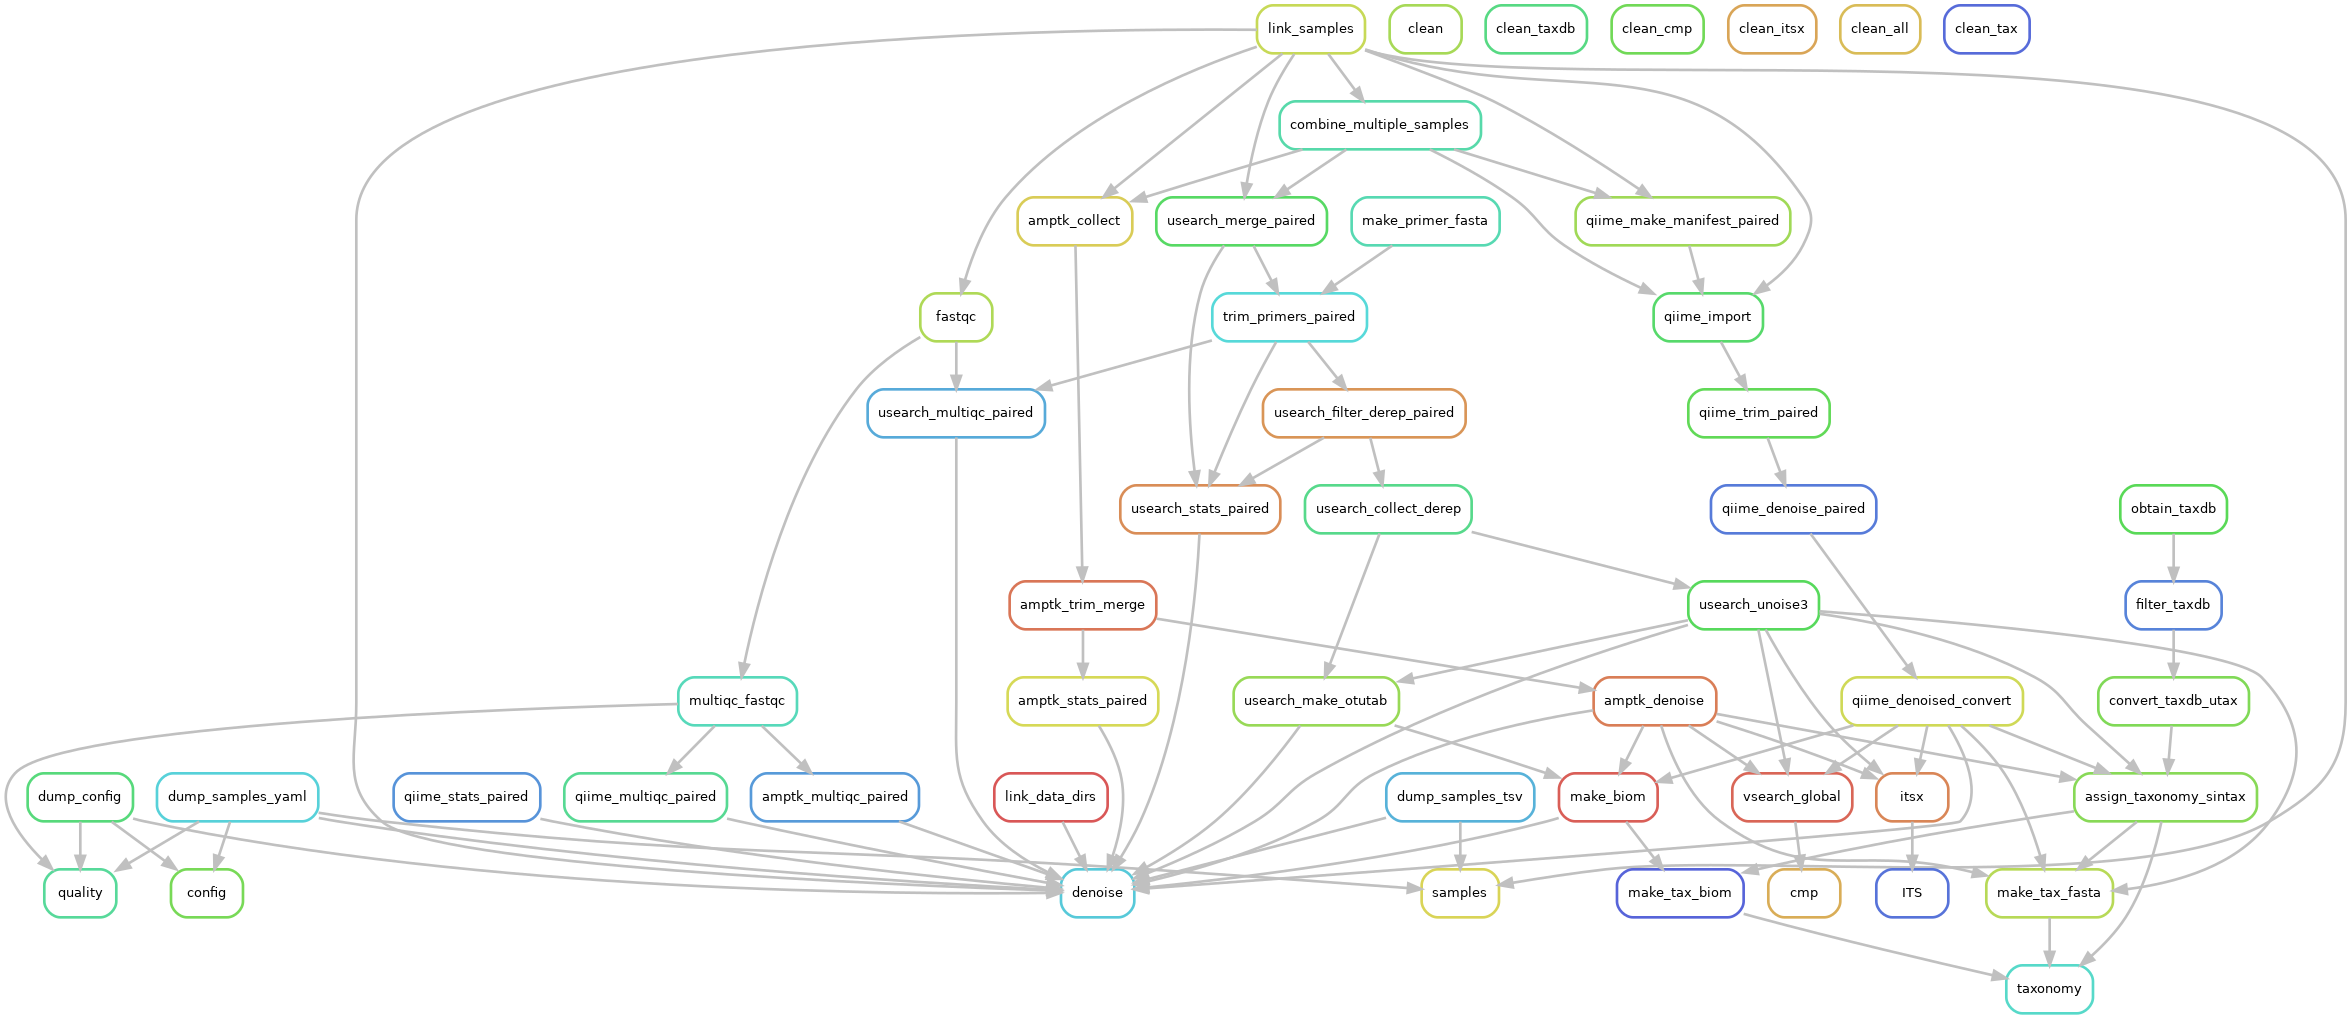
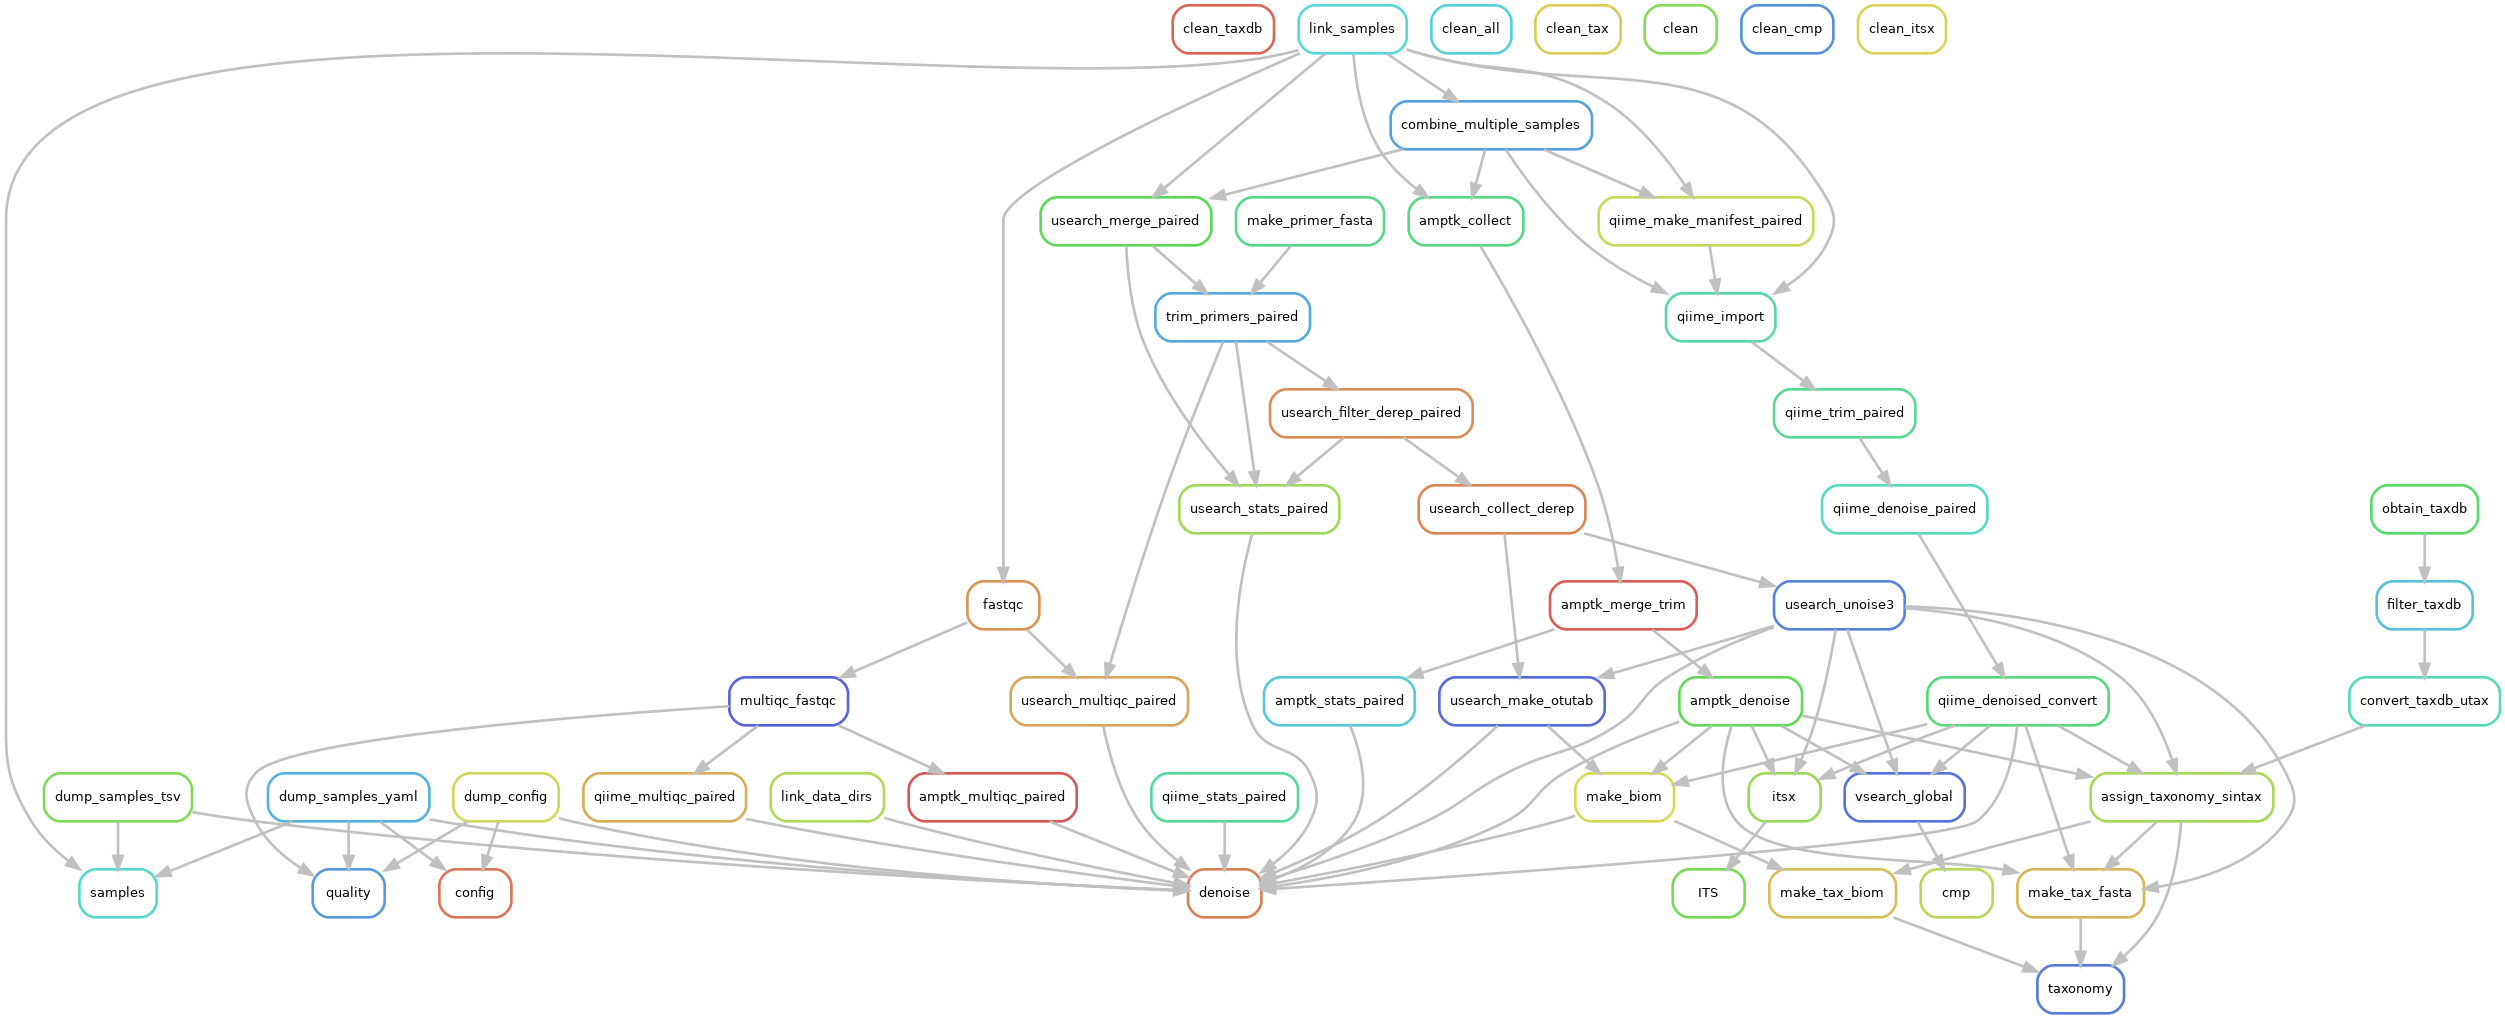
Misc small adjustments
* small code fixes not previously committed
* descriptions + updated rule graph
...

diff --git a/README.md b/README.md
@@ -26,7 +26,7 @@ The current rule graph (see also [description of target rules](Commands.md)):
 
 ## Installing
 
-The pipeline makes use of the [Conda package manager](https://conda.io) ,installation is thus pretty straightforward ([see instructions here](INSTALL.md)).
+The pipeline makes use of the [Conda package manager](https://conda.io), the installation is thus pretty straightforward ([see instructions here](INSTALL.md)).
 
 ## Configuring
 
